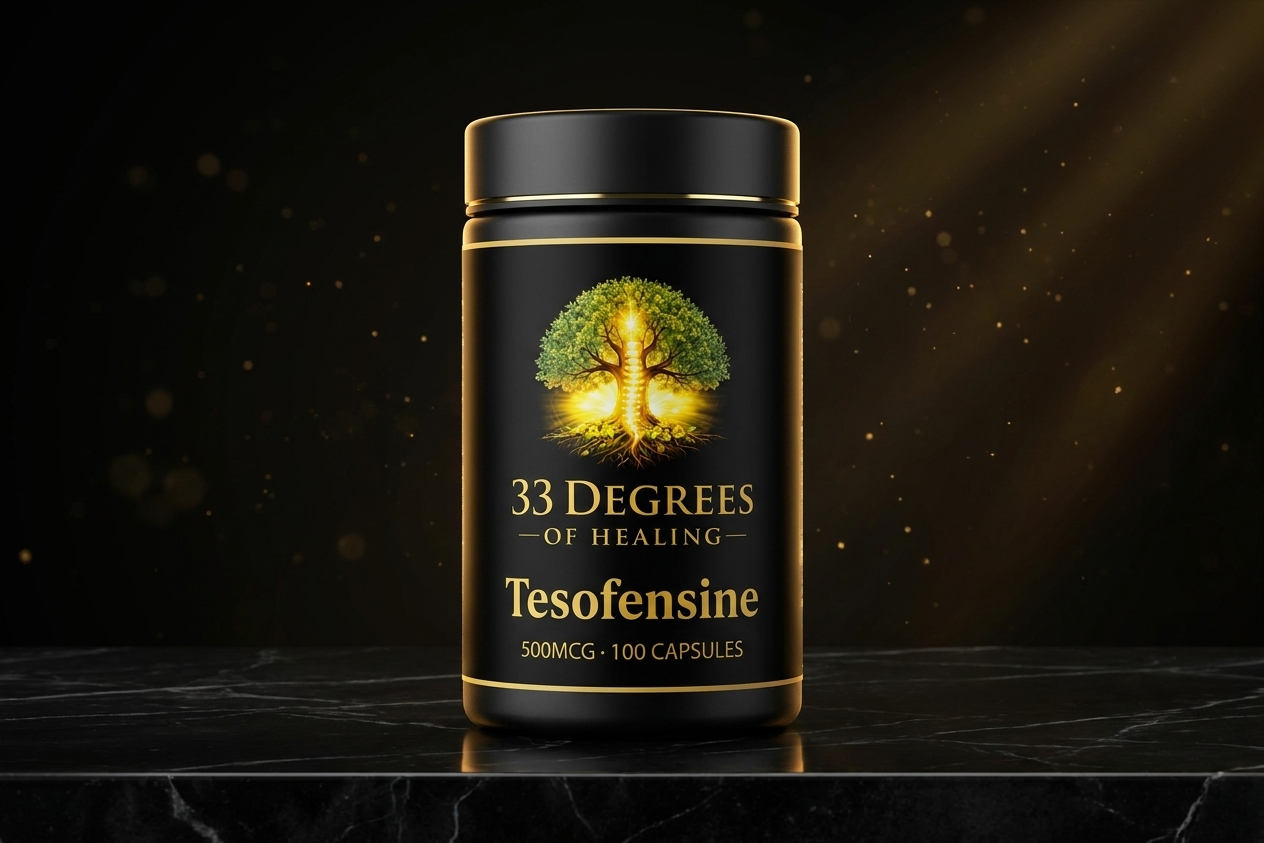
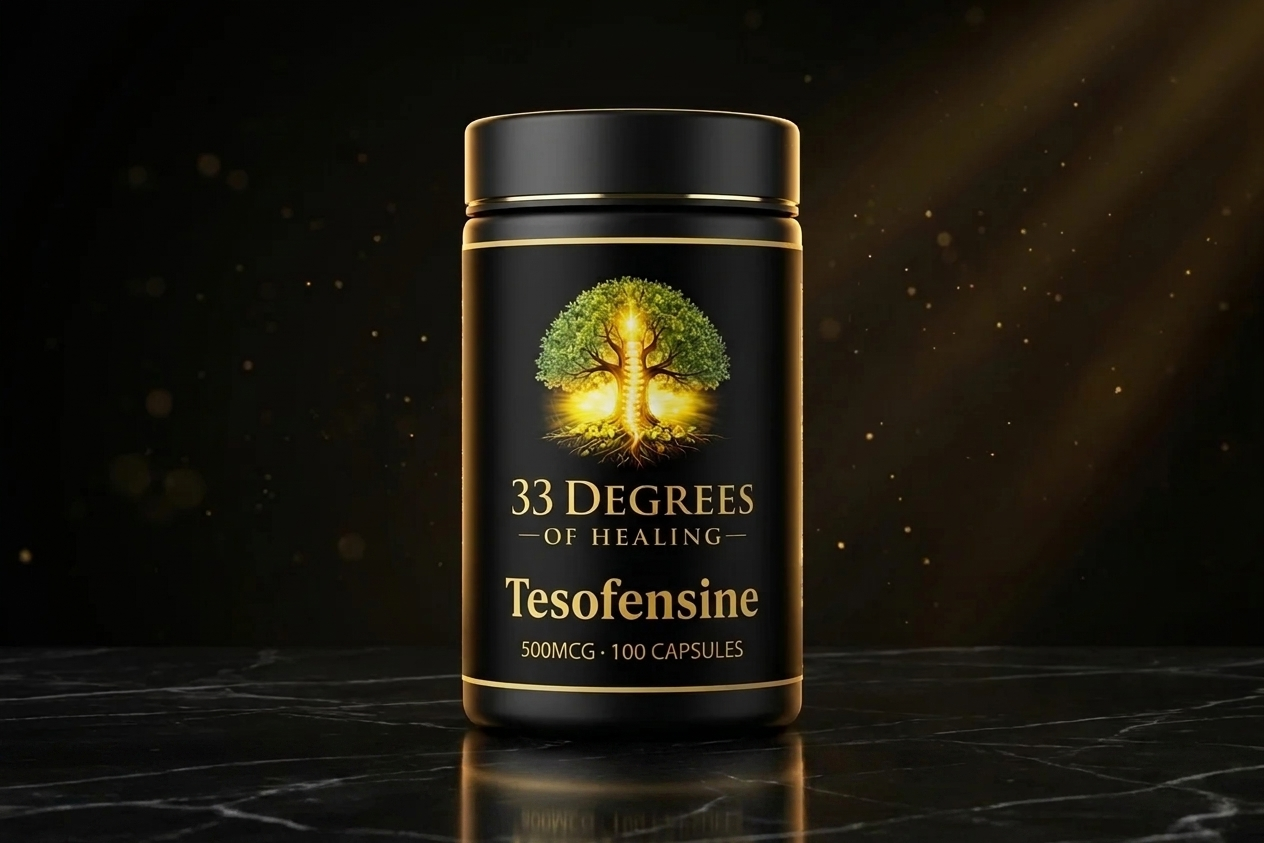
Methylene Blue + Tesofensine: remove platform edge from bottom of image

diff --git a/tools/regenerate_pill_bottles_clean.py b/tools/regenerate_pill_bottles_clean.py
@@ -1,0 +1,105 @@
+"""Regenerate Methylene Blue and Tesofensine bottle images.
+
+Both currently show a horizontal platform-edge line near the bottom of
+the image (artifact of the generation prompt placing them on an elevated
+slab). This re-runs them with explicit "continuous marble floor"
+staging to match MT-2 / LIPO-C / other peptide vials.
+
+Uses LIPO-C (semax-cloned) as the staging reference for the floor style,
+then prompts the model to change the bottle to a tall pill bottle with
+the right label.
+"""
+from google import genai
+from google.genai import types
+from PIL import Image
+import os
+import io
+from pathlib import Path
+
+
+def _load_env_key():
+    env_path = Path(__file__).parent.parent / ".env"
+    if env_path.exists():
+        for line in env_path.read_text().splitlines():
+            if line.startswith("GEMINI_API_KEY="):
+                return line.split("=", 1)[1].strip().strip('"').strip("'")
+    return os.environ.get("GEMINI_API_KEY", "")
+
+
+API_KEY = _load_env_key()
+MODEL = "nano-banana-pro-preview"
+OUTPUT_DIR = os.path.join(os.path.dirname(os.path.dirname(__file__)), "assets/images/products")
+
+client = genai.Client(api_key=API_KEY)
+
+PRODUCTS = [
+    {
+        "slug": "methylene-blue",
+        "product_name": "Methylene Blue",
+        "dose_line": "20MG · 100 CAPSULES",
+    },
+    {
+        "slug": "tesofensine",
+        "product_name": "Tesofensine",
+        "dose_line": "500MCG · 100 CAPSULES",
+    },
+]
+
+
+def regenerate(product):
+    # Use current Tesofensine label/bottle styling but ask for the LIPO-C-style floor
+    # We'll feed Tesofensine as the LABEL+BOTTLE reference and explicitly call out
+    # the surface change in the prompt.
+    ref_path = os.path.join(OUTPUT_DIR, "tesofensine.webp")
+
+    prompt = f"""Take the attached product image and produce a new image with TWO changes:
+
+CHANGE 1 — Label text only:
+- Where the label currently says "Tesofensine" → "{product['product_name']}"
+- Where the label currently says "500MCG · 100 CAPSULES" → "{product['dose_line']}"
+
+CHANGE 2 — Background/staging:
+- REMOVE the elevated platform/slab the bottle is sitting on
+- REPLACE it with a CONTINUOUS dark marble floor that extends naturally in all directions, with NO visible horizontal edge, NO platform front, NO divider line cutting across the lower portion of the image
+- The marble surface should fade smoothly into the background, like the bottle is sitting on an infinite dark marble floor
+
+KEEP IDENTICAL:
+- The bottle shape, proportions, color (matte black tall cylindrical pill bottle)
+- The cap (same color, flat-top shape)
+- The gold pinstripe accent lines on the label (top and bottom)
+- The golden tree of life logo (unchanged, same position)
+- The "33 DEGREES OF HEALING" text (unchanged)
+- The dark moody background, gold bokeh particles, golden rim lighting on the bottle
+- The reflection beneath the bottle
+- The camera angle and framing
+
+The image should look like the bottle is on a continuous polished marble floor, NOT on a podium with a visible edge."""
+
+    with open(ref_path, "rb") as f:
+        ref_bytes = f.read()
+
+    response = client.models.generate_content(
+        model=MODEL,
+        contents=[
+            types.Part.from_bytes(data=ref_bytes, mime_type="image/webp"),
+            prompt,
+        ],
+        config=types.GenerateContentConfig(response_modalities=["IMAGE", "TEXT"]),
+    )
+
+    if response.candidates:
+        for part in response.candidates[0].content.parts:
+            if part.inline_data and part.inline_data.mime_type.startswith("image/"):
+                img = Image.open(io.BytesIO(part.inline_data.data))
+                img.save(os.path.join(OUTPUT_DIR, f"{product['slug']}.png"), "PNG")
+                img.save(os.path.join(OUTPUT_DIR, f"{product['slug']}.webp"), "WEBP", quality=85)
+                print(f"  Created: {product['slug']}.webp ({img.size[0]}x{img.size[1]})")
+                return True
+    print(f"  FAILED: {product['slug']}")
+    return False
+
+
+if __name__ == "__main__":
+    for p in PRODUCTS:
+        print(f"Regenerating {p['product_name']}...")
+        regenerate(p)
